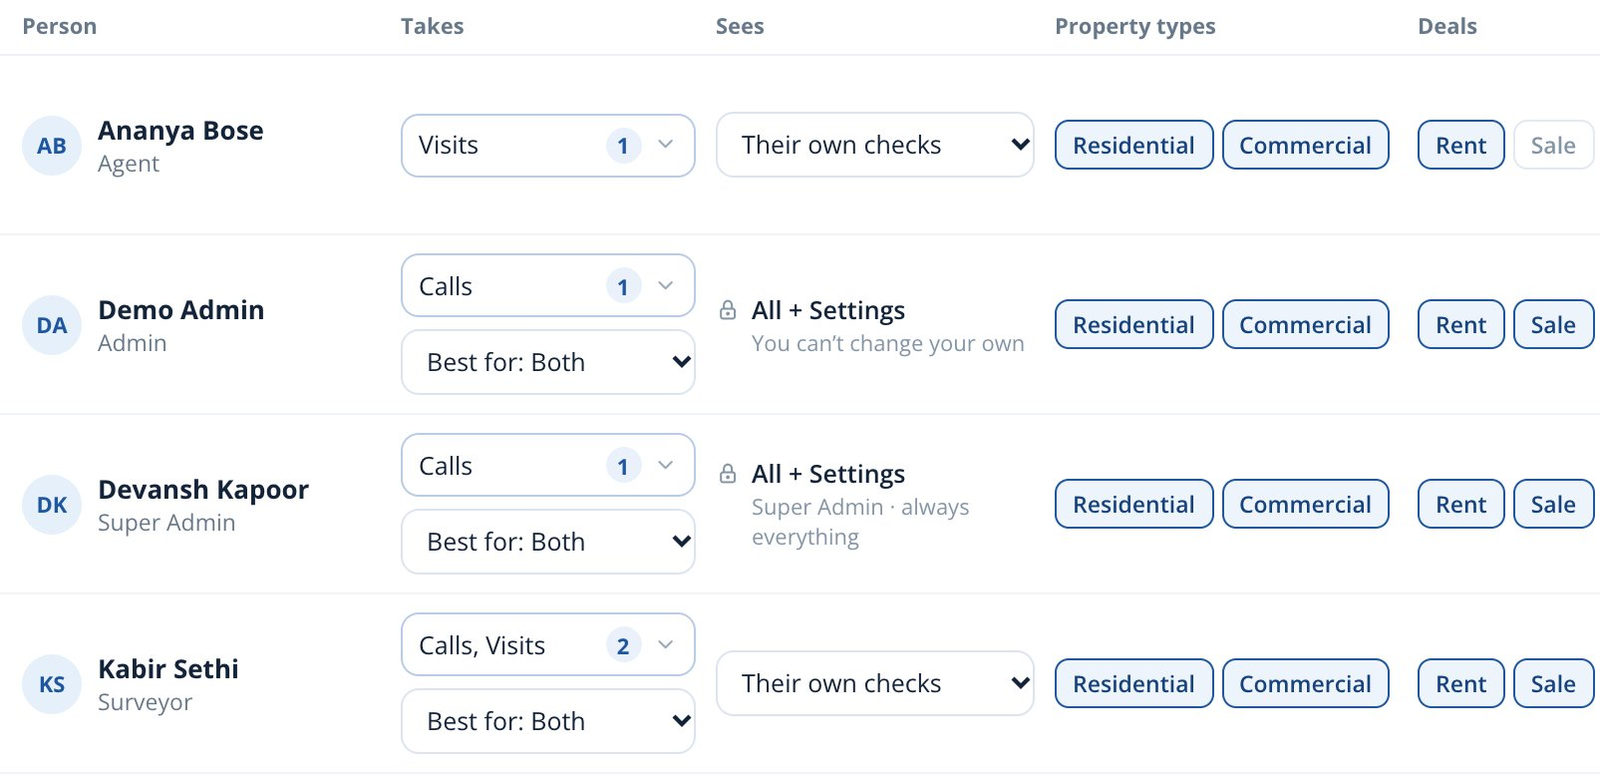
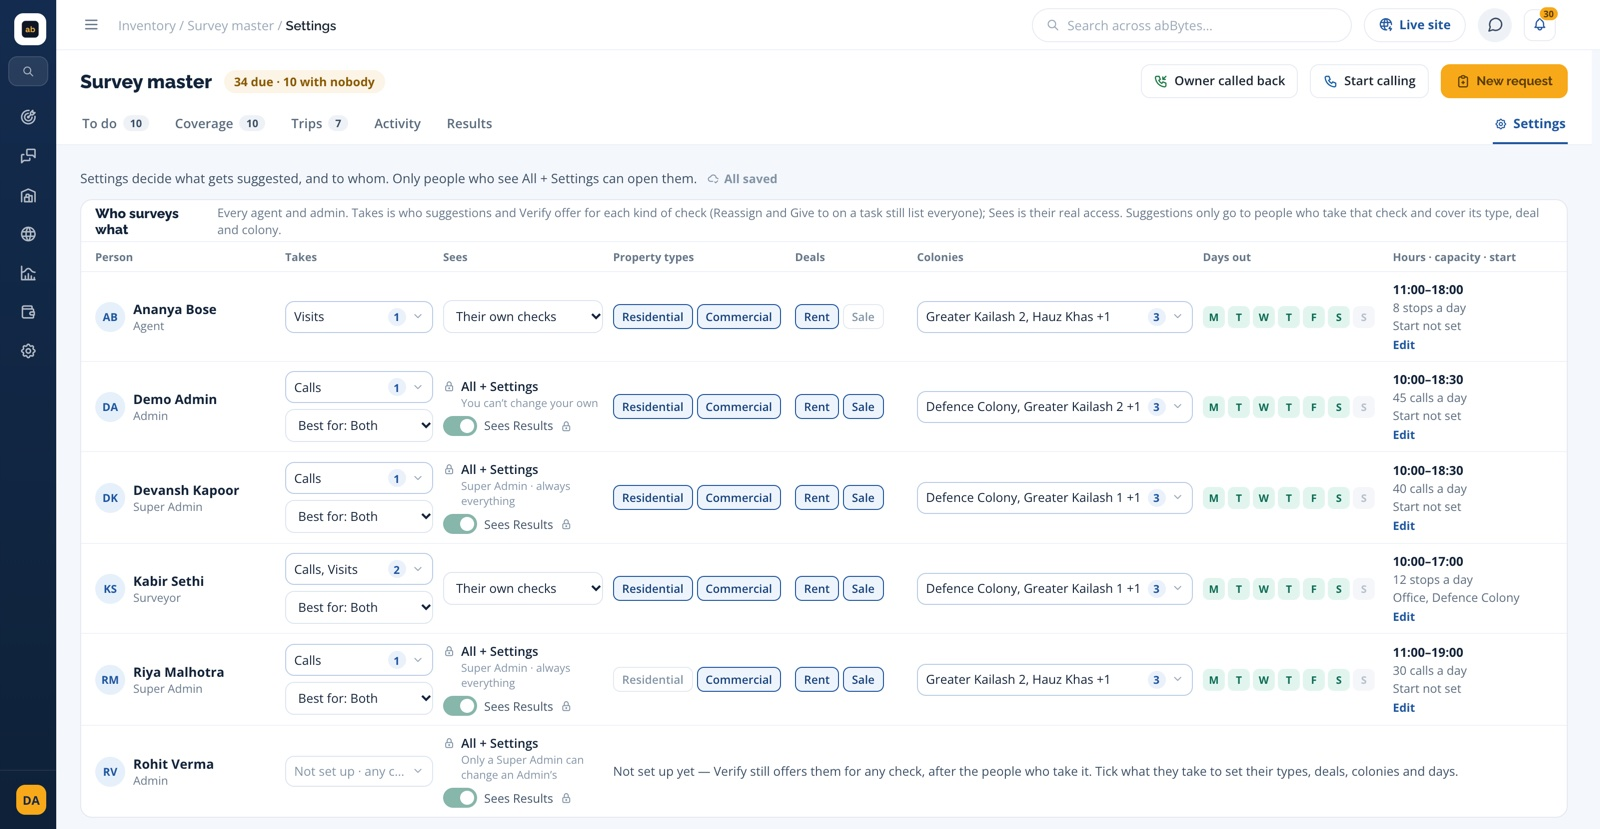
Recapture four screens full width (enquiry workspace, property search, free-text search, who surveys what) and restore them
The earlier captures were cut off at the right edge. New captures come from the local demo copy (fictional data).

diff --git a/README.md b/README.md
@@ -146,6 +146,10 @@ Each issue's PDFs are read line by line and matched against live stock. People d
 
 **1,463** free-text searches by **8 staff**, 6–22 Oct 2026.
 
+![Staff inventory search: the sentence "3 bhk vasant vihar under 1.5 lakh" turned into filter chips above the results](screenshots/c02-search-free-text.jpg)
+
+*“3 bhk vasant vihar under 1.5 lakh” becomes filter chips: 3 BHK · Vasant Vihar · rent up to ₹1.5 L.*
+
 ![Staff search reading the desk shorthand "3 bhk defence colony gf" as 3 BHK, Defence Colony, ground floor](screenshots/c02-search-desk-shorthand.jpg)
 
 *Desk shorthand: “3 bhk defence colony gf” reads as 3 BHK · Defence Colony · Ground floor.*
@@ -229,6 +233,10 @@ Every listing has a freshness clock (rent 30 days, sale 45). Lapsing stock becom
 ### The desk runs on *the manager's rules.*
 
 > **Capabilities:** auto-assign · week planner
+
+![Survey master Settings, Who surveys what: per-person property types, deals, colonies, working days, hours and daily capacity](screenshots/c03-survey-settings.jpg)
+
+*Settings › Who surveys what: what each person takes, sees and covers (property types, deals, colonies), plus days, hours and daily capacity; minutes per call, visit stop and shoot are set here too, and auto-assign of waiting visits ships off.*
 
 ![Week planner proposing each person's share of next week with "Suggest a split for everyone"](screenshots/c03-week-planner.jpg)
 
@@ -614,6 +622,10 @@ Five ready-made recipes on one engine: site-visit confirmation and reminder, wel
 
 Six tabs on every lead: **Tasks, Property search, Buckets, Verifications & surveys, Engagement** and **Timeline**.
 
+![Enquiry workspace for a demo client: contact card and pinned remark on the left, the Engagement tab in the middle, the team's notes on the right](screenshots/c05-enquiry-workspace.jpg)
+
+*The enquiry workspace (demo client): contact card and pinned remark, flags and tags, stage and work-state, and the Engagement tab with what the client did on the website.*
+
 ### Every number *opens its list.*
 
 ![CRM dashboard with Today's brief and Act now tiles](screenshots/c05-dashboard.jpg)
@@ -655,9 +667,9 @@ Six tabs on every lead: **Tasks, Property search, Buckets, Verifications & surve
 
 **2,248** property-to-lead matches in the 30 days to 22 Oct 2026 (**1,887** on 5 Oct).
 
-![Buckets tab: a custom Over budget, ask owner bucket, the automatic Enquired bucket and Shared](screenshots/c05-buckets.jpg)
-
-*Buckets: a custom “Over budget · ask owner”, the automatic Enquired bucket and Shared, with how far each listing sits from the budget.*
+| ![Property search for a lead, opened filtered from the brief, ranking 11 matches by percentage fit](screenshots/c05-property-search.jpg) | ![Buckets tab: a custom Over budget, ask owner bucket, the automatic Enquired bucket and Shared](screenshots/c05-buckets.jpg) |
+|---|---|
+| Property search opens filtered from the brief and ranks 11 matches by % fit, with how fresh each listing's check is (demo data). | Buckets: a custom “Over budget · ask owner”, the automatic Enquired bucket and Shared, with how far each listing sits from the budget. |
 
 <p align="center">
   <img src="screenshots/c05-m-verifications.jpg" alt="Verifications on a phone, sorted into available, not available, in progress and not asked yet" width="280"><br>
